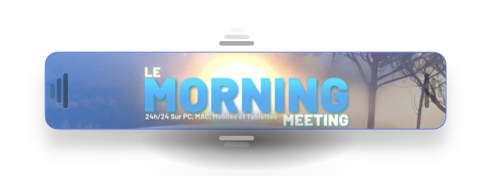
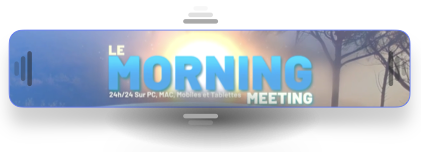
v69: picto morning + horaires sur picto + fix timezone UTC/Paris

diff --git a/agenda-studio.html b/agenda-studio.html
@@ -1,5 +1,5 @@
 <!DOCTYPE html>
-<!-- BUILD: 2026-02-14 23:00:58 -->
+<!-- BUILD: 2026-02-15 02:23:11 -->
 <html lang="fr">
 <head>
     <meta charset="UTF-8">
@@ -169,10 +169,13 @@
             border-radius: 10px;
         }
         .event.fixed-picto .picto-time {
-            position: absolute; bottom: 2px; left: 0; right: 0;
-            font-size: 9px; font-weight: 700; color: rgba(255,255,255,0.8);
+            position: absolute; bottom: 6px; left: 0; right: 0;
+            font-size: 11px; font-weight: 700; color: #fff;
             text-align: center;
-            text-shadow: 0 1px 4px rgba(0,0,0,0.8);
+            text-shadow: 0 1px 4px rgba(0,0,0,0.9);
+            background: rgba(0,0,0,0.35);
+            padding: 2px 0;
+            border-radius: 0 0 10px 10px;
         }
 
         .event:hover {
@@ -339,7 +342,7 @@
     const JOURS_FULL = ['Lundi','Mardi','Mercredi','Jeudi','Vendredi'];
 
     const EVENT_IMAGES = {
-        morning: { src: IMG_BASE + 'picto-morning.png', mode: 'fixed', height: 40 },
+        morning: { src: IMG_BASE + 'picto-morning.png', mode: 'fixed', height: 55 },
         'conf call': { src: IMG_BASE + 'picto-confcall.png', mode: 'fixed', height: 45 },
         'conference call': { src: IMG_BASE + 'picto-confcall.png', mode: 'fixed', height: 45 },
         'conf hebdo': { src: IMG_BASE + 'picto-confcall.png', mode: 'fixed', height: 45 },
